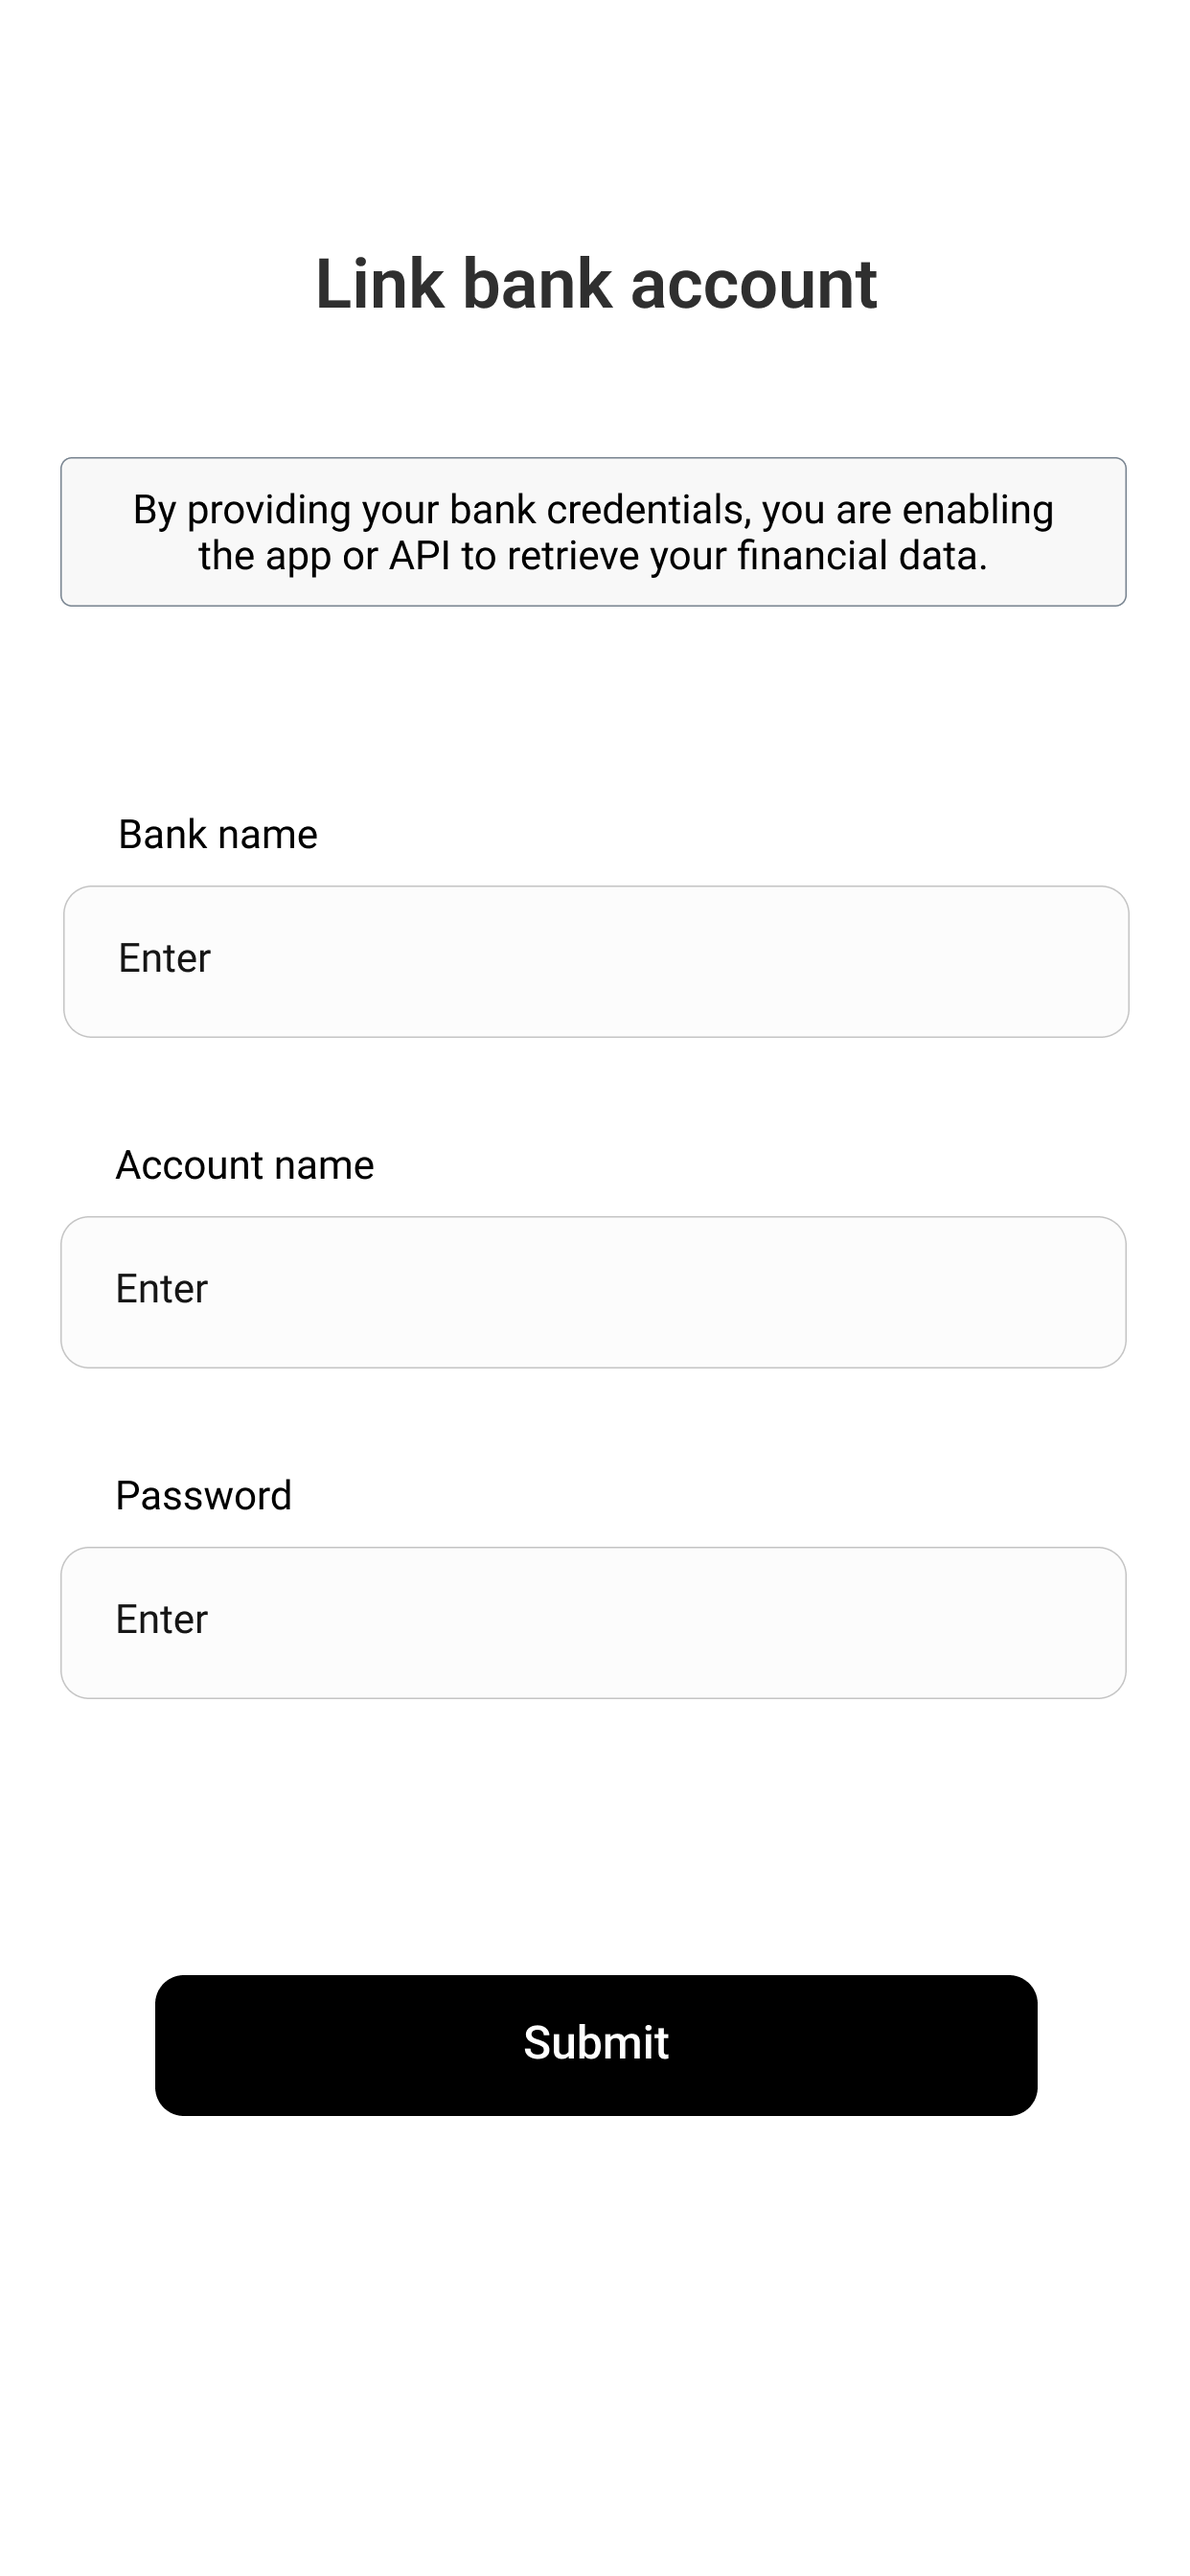
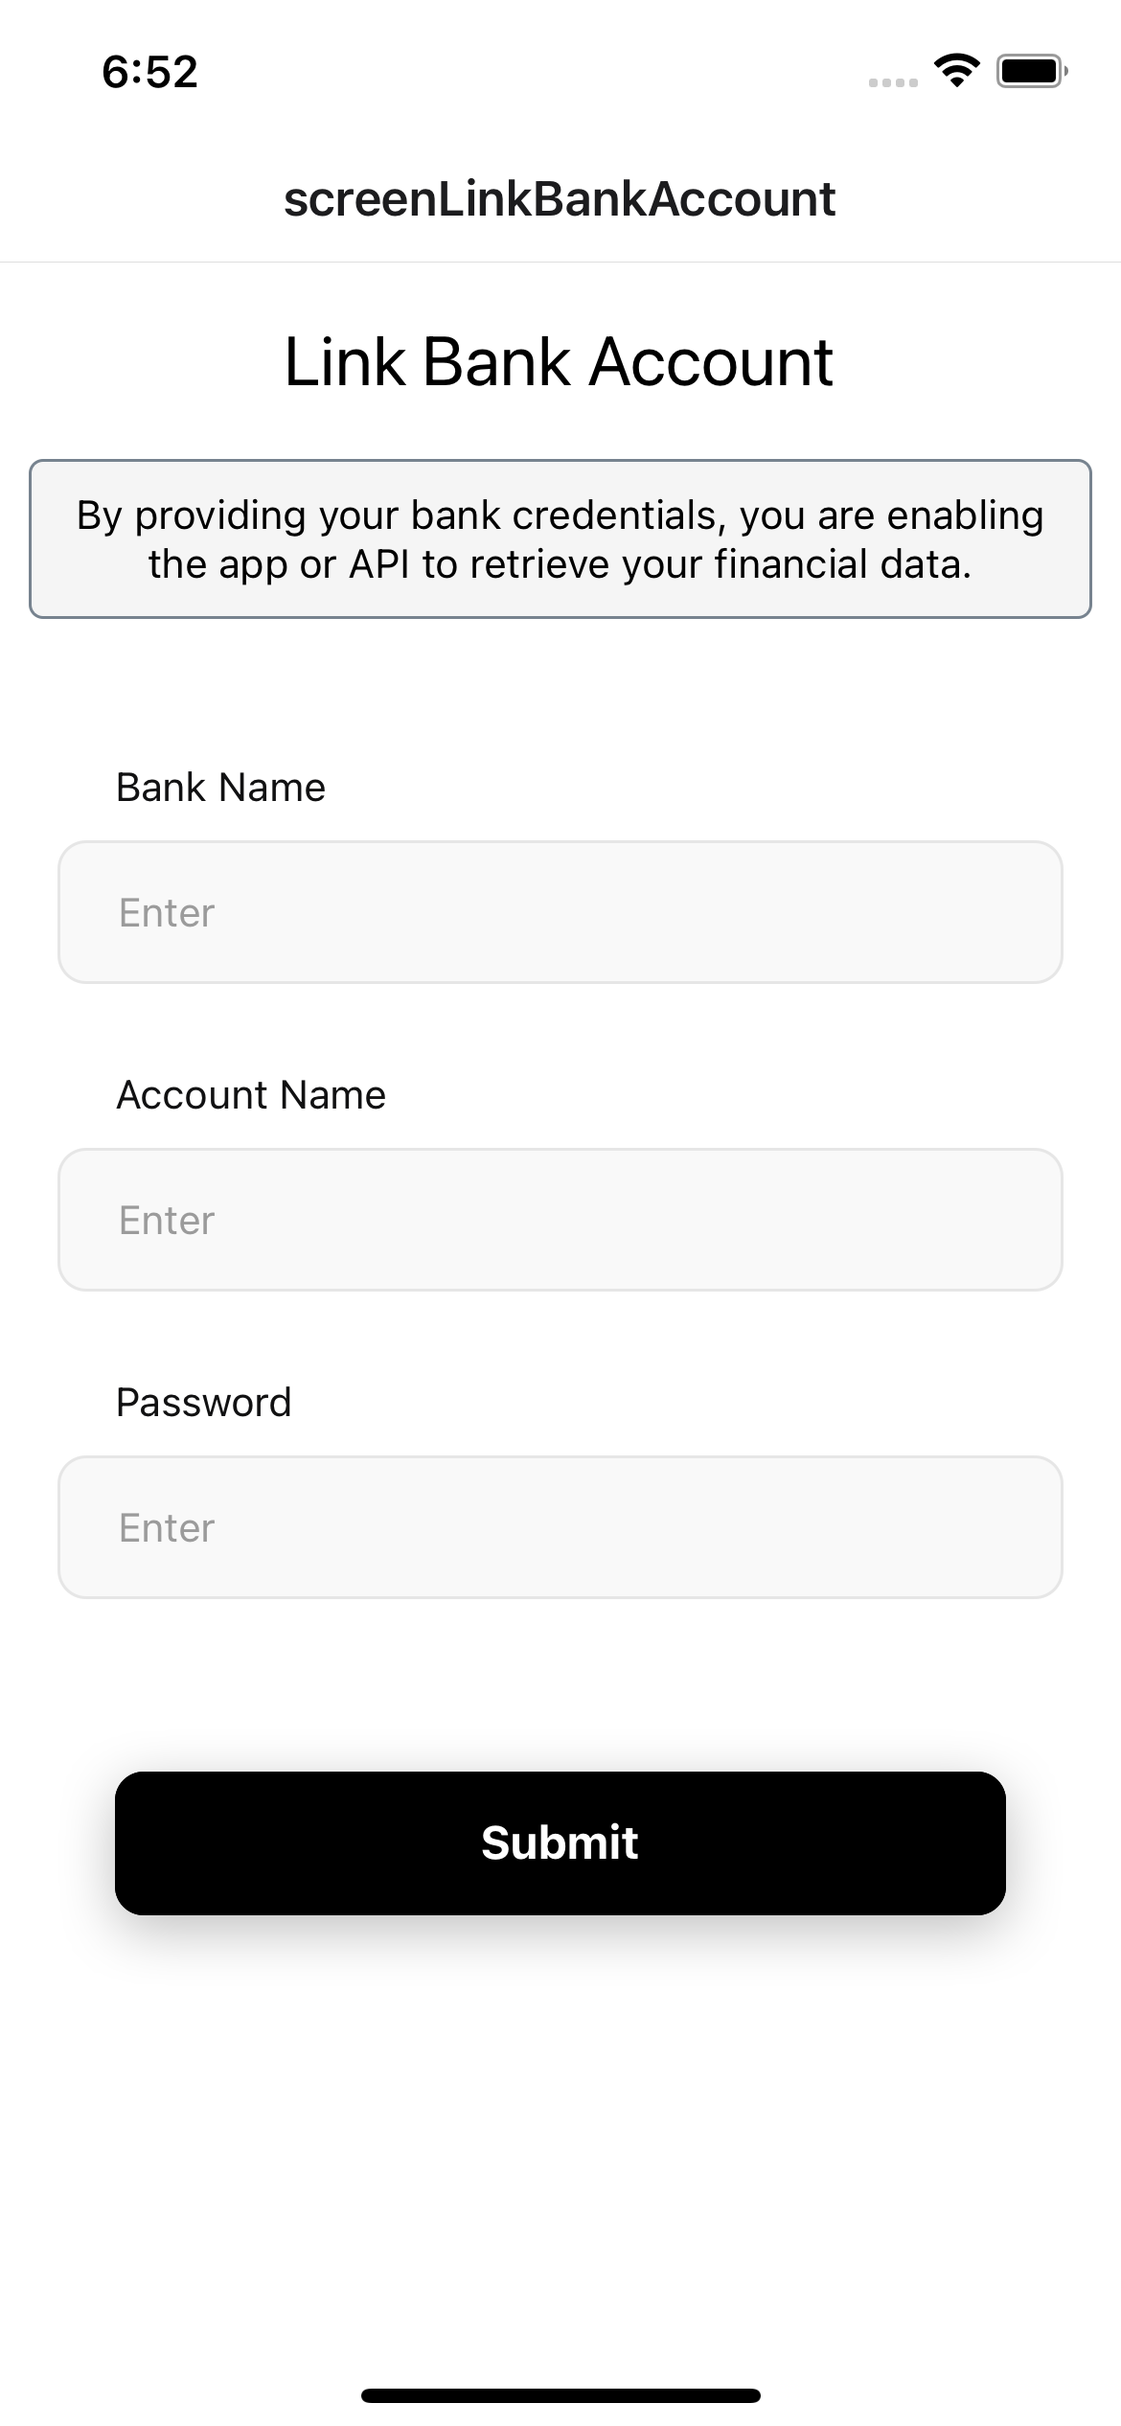
link bank account scren aded

diff --git a/screens/screen-link-bank-account/index.js b/screens/screen-link-bank-account/index.js
@@ -1,14 +1,39 @@
-import React from "react";
-import {
-  Text,
-  View,
-  StyleSheet
-} from "react-native";
+import React, { useState } from "react";
+import { Text, View, StyleSheet, Pressable, TextInput } from "react-native";
 
 const LinkBankAccount = () => {
+  const [bankName, setBankName] = useState("");
+  const [accountName, setAccountName] = useState("");
+  const [password, setPassword] = useState("");
   return (
     <View style={styles.container}>
       <Text style={styles.heading}>Link Bank Account</Text>
+      <View style={styles.warningContainer}>
+        <Text style={styles.warningText}>
+          By providing your bank credentials, you are enabling the app or API to
+          retrieve your financial data.
+        </Text>
+      </View>
+      <Input
+        text="Bank Name"
+        value={bankName}
+        onChange={setBankName}
+        containerStyle={styles.input}
+      />
+      <Input
+        text="Account Name"
+        value={accountName}
+        onChange={setAccountName}
+        containerStyle={styles.input}
+      />
+      <Input
+        text="Password"
+        value={password}
+        onChange={setPassword}
+        containerStyle={styles.input}
+        secureTextEntry
+      />
+      <Button buttonText="Submit" style={styles.button} />
     </View>
   );
 };
@@ -18,8 +43,181 @@ const styles = StyleSheet.create({
     backgroundColor: "#fff"
   },
   heading: {
-    fontSize: 20
+    fontSize: 24,
+    alignSelf: "center",
+    marginTop: 20
+  },
+  warningContainer: {
+    marginHorizontal: 10,
+    marginBottom: 40,
+    marginTop: 20,
+    padding: 10,
+    backgroundColor: "#f5f5f5",
+    borderColor: "#77838F",
+    borderWidth: 1,
+    borderRadius: 5
+  },
+  warningText: {
+    fontSize: 14,
+    textAlign: "center"
+  },
+  input: {
+    marginHorizontal: 20,
+    marginVertical: 10
+  },
+  button: {
+    marginHorizontal: 40,
+    marginVertical: 40
   }
 });
 
 export default LinkBankAccount;
+
+const Input = props => {
+  return (
+    <View style={[inputStyles.inputContainer, props.containerStyle]}>
+      {props.text ? (
+        <Text style={inputStyles.inputText}>{props.text}</Text>
+      ) : null}
+
+      <TextInput
+        style={[
+          inputStyles.input,
+          props.style,
+          props.textArea ? inputStyles.textArea : null
+        ]}
+        placeholder={props.placeholder ? props.placeholder : "Enter"}
+        value={props.value}
+        onChangeText={() => props.onChange()}
+        placeholderTextColor={
+          props.placeholderTextColor ? props.placeholderTextColor : "#9B9B9B"
+        }
+        editable={props.editable !== false}
+        autoCapitalize="none"
+        autoCorrect={false}
+        multiline={props.textArea ? true : false}
+        backgroundColor={props.backgroundColor || "#f9f9f9"}
+        secureTextEntry={props.secureTextEntry}
+      />
+      {props.errorText ? (
+        <Text style={inputStyles.error}>{props.errorText}</Text>
+      ) : null}
+      {props.icon ? (
+        <Image
+          source={props.icon}
+          style={
+            props.text ? inputStyles.iconWithText : inputStyles.iconWithoutText
+          }
+        />
+      ) : null}
+      <View style={styles.children}>{props.children}</View>
+    </View>
+  );
+};
+
+const inputStyles = StyleSheet.create({
+  inputContainer: {
+    flexDirection: "column",
+    justifyContent: "center"
+  },
+  inputText: {
+    fontSize: 14,
+    marginLeft: 20,
+    color: "#111112"
+  },
+  input: {
+    borderWidth: 1,
+    borderColor: "#e6e6e6",
+    borderRadius: 10,
+    padding: 10,
+    paddingLeft: 20,
+    marginVertical: 10,
+    width: "100%",
+    height: 50,
+    color: "#000"
+  },
+  iconWithText: {
+    position: "absolute",
+    right: 30,
+    top: 48,
+    width: 15,
+    height: 15,
+    resizeMode: "contain"
+  },
+  iconWithoutText: {
+    position: "absolute",
+    right: 30,
+    top: 28,
+    width: 15,
+    height: 15,
+    resizeMode: "contain"
+  },
+  textArea: {
+    height: 150
+  },
+  children: {}
+});
+
+const Button = params => {
+  const backgroundColor = params.color || "#000";
+  const textColor = params.textColor || "#fff";
+  const btnStyle = {
+    backgroundColor: backgroundColor,
+    borderColor: params.outlineColor || backgroundColor,
+    borderWidth: 1
+  };
+  const btnText = {
+    color: textColor
+  };
+  return (
+    <View style={[buttonStyles.btnContainer, params.style]}>
+      <View style={!params.hideShadow ? buttonStyles.shadowContainer : null}>
+        <Pressable
+          style={[buttonStyles.btn, btnStyle]}
+          onPress={params.onPress}>
+          <Text style={[buttonStyles.btnText, btnText]}>
+            {params.buttonText}
+          </Text>
+          <View style={styles.childrenContainer}>{params.children}</View>
+        </Pressable>
+      </View>
+    </View>
+  );
+};
+
+const buttonStyles = StyleSheet.create({
+  btnContainer: {
+    justifyContent: "center"
+  },
+  shadowContainer: {
+    shadowColor: "rgba(0, 0, 0, 0.5)",
+    shadowOffset: {
+      width: 0,
+      height: 5
+    },
+    shadowOpacity: 0.5,
+    shadowRadius: 10,
+    elevation: 10,
+    backgroundColor: "#fff",
+    borderRadius: 10
+  },
+  btn: {
+    height: 50,
+    padding: 10,
+    paddingHorizontal: 25,
+    borderRadius: 10,
+    justifyContent: "center",
+    alignItems: "center",
+
+    flexDirection: "row"
+  },
+  btnText: {
+    color: "#fff",
+    fontSize: 16,
+    fontWeight: "bold"
+  },
+  childrenContainer: {
+    justifyContent: "center",
+    alignItems: "center"
+  }
+});

diff --git a/modules/index.js b/modules/index.js
@@ -2,7 +2,7 @@ import mods from "./*/index.js";
 import { getModules } from "./modules.js";
 
 export const modules = getModules(mods);
-export const initialRoute = "screenFingerprintLoginPopUp";
+export const initialRoute = "screenLinkBankAccount";
 // export const initialRoute = modules[0].value.title;
 export const slices = modules
   .filter(mod => mod.value.slice)
